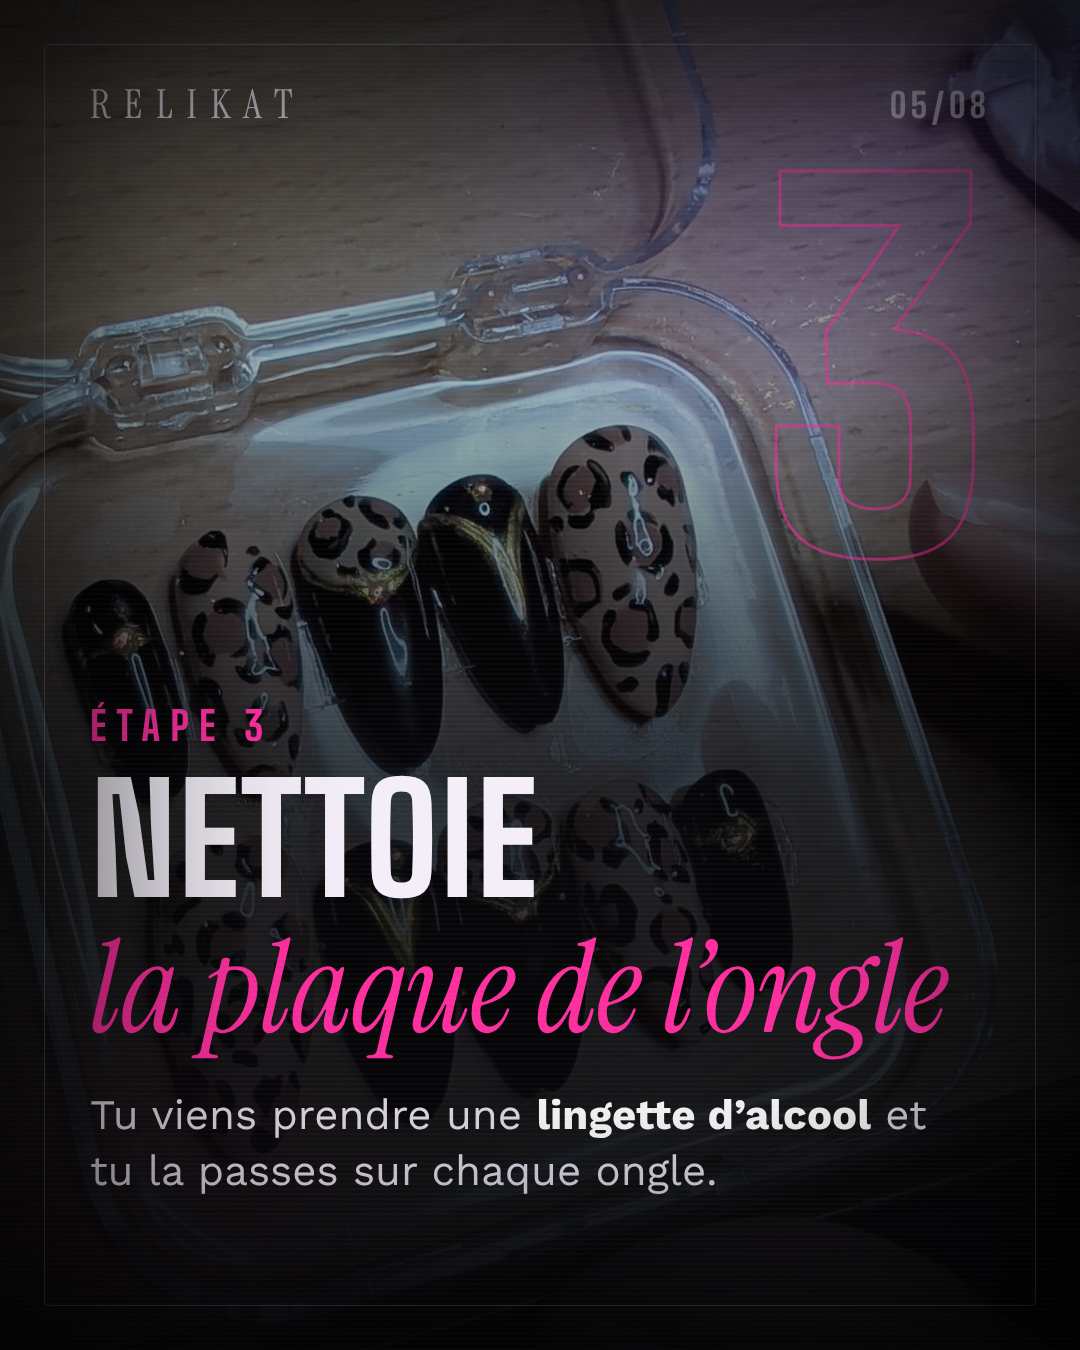
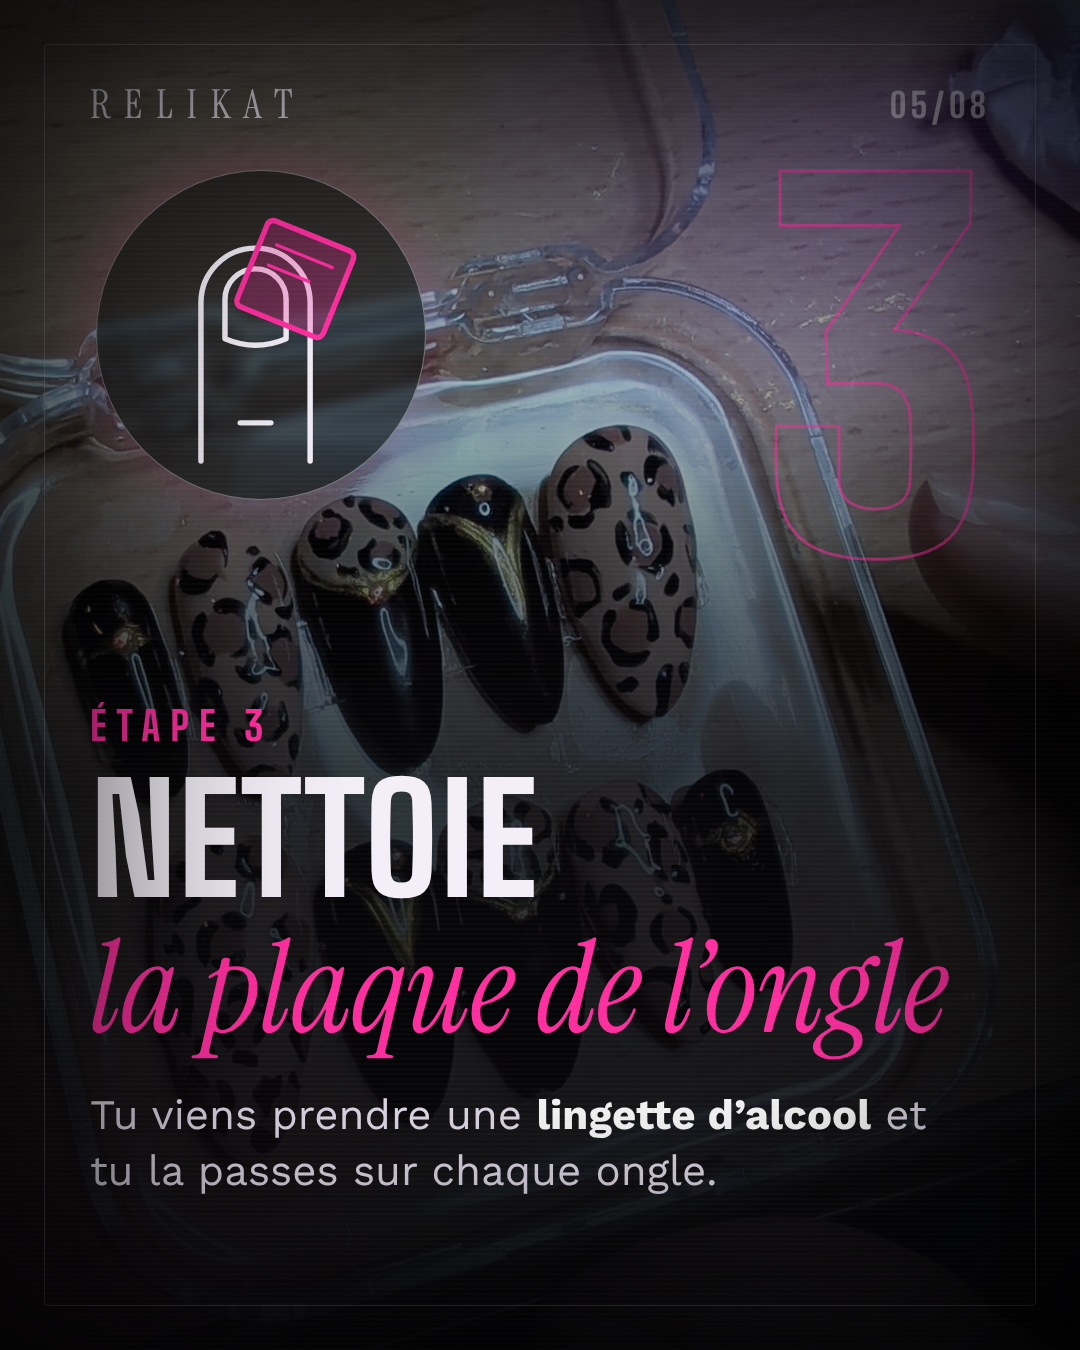
Carrousel RELIKAT : pictos au trait par étape + récap en grille
Claude-Session: https://claude.ai/code/session_0146tJhNhDf1eUKpWvX2gybg

Changed region(s): [[0.0917, 0.1244, 0.3972, 0.3733]]

diff --git a/relikat-carrousel-prepa/carrousel.html b/relikat-carrousel-prepa/carrousel.html
@@ -43,6 +43,18 @@ h1 em{font-family:ISerif;font-weight:400;font-style:normal;text-transform:none;c
  radial-gradient(800px 700px at 0% 100%,rgba(255,47,160,.25),transparent 60%)}
 .full .shade{background:linear-gradient(180deg,rgba(8,7,10,.45),rgba(8,7,10,.78) 35%,rgba(8,7,10,.88)),
  radial-gradient(900px 700px at 85% 10%,rgba(155,92,255,.30),transparent 60%)}
+.ic{position:absolute;left:96px;top:170px;width:330px;height:330px;border-radius:50%;border:1.5px solid rgba(217,217,227,.45);
+ background:rgba(8,7,10,.55);backdrop-filter:blur(6px);display:flex;align-items:center;justify-content:center;box-shadow:0 0 60px rgba(255,47,160,.18)}
+svg .ln{fill:none;stroke:#f3eef7;stroke-width:5;stroke-linecap:round;stroke-linejoin:round}
+svg .ln.thin{stroke-width:3;stroke:#ff2fa0}
+svg .ln.fill{fill:rgba(255,47,160,.28);stroke:#ff2fa0}
+svg .pad{fill:#ff2fa0;opacity:.85}
+svg .sp{fill:#d9d9e3;font-size:34px}
+.grid{display:grid;grid-template-columns:repeat(3,1fr);gap:18px;margin-top:40px}
+.cell{border:1.5px solid rgba(217,217,227,.35);background:rgba(8,7,10,.6);padding:18px 10px 20px;text-align:center}
+.cell .n{font-family:BigS;font-size:34px;color:#ff2fa0;letter-spacing:3px}
+.cell .l{font-size:27px;line-height:1.25;color:#f3eef7;margin-top:8px}
+.cell.tip{display:flex;flex-direction:column;justify-content:center;border-color:#ff2fa0}
 </style></head><body>
 
 <!-- SVG nail reused -->
@@ -68,25 +80,27 @@ h1 em{font-family:ISerif;font-weight:400;font-style:normal;text-transform:none;c
  <div class="txt">C’est presque toujours <b>la prépa</b> : un ongle brillant ou gras, et ça ne peut pas accrocher.</div>
  <div class="hand">Alors on prépare →</div></div></section>
 <section class="s" id="s3"><div class="bg" style="background-image:url(p-boite-poste.jpg);background-position:center 20%"></div><div class="shade"></div><div class="frame"></div><div class="brand">RELIKAT</div><div class="pg">03/08</div><div class="num">1</div>
+ <div class="ic"><svg viewBox="0 0 210 250" width="230" height="273"><path d="M50 240 V95 A50 50 0 0 1 150 95 V240" class="ln"/><path d="M72 128 V92 A28 28 0 0 1 128 92 V128 Q100 140 72 128 Z" class="ln"/><path d="M86 205 H114" class="ln"/><g transform="rotate(-18 105 62)"><rect x="18" y="42" width="175" height="40" rx="20" class="ln fill"/><path d="M40 62 H170" class="ln thin"/></g></svg></div>
   <div class="content"><div class="kicker">Étape 1</div><h1>Matifie<br><em>tes ongles</em></h1>
  <div class="txt">Tu dois <b>absolument</b> matifier tes ongles avec un buffer. On enlève juste la brillance.</div></div></section>
 <section class="s" id="s4"><div class="bg" style="background-image:url(p-mains-h.png);background-position:78% 70%"></div><div class="shade"></div><div class="frame"></div><div class="brand">RELIKAT</div><div class="pg">04/08</div><div class="num">2</div>
+ <div class="ic"><svg viewBox="0 0 210 250" width="230" height="273"><path d="M50 240 V95 A50 50 0 0 1 150 95 V240" class="ln"/><path d="M72 128 V92 A28 28 0 0 1 128 92 V128 Q100 140 72 128 Z" class="ln"/><path d="M86 205 H114" class="ln"/><path d="M100 112 L182 18" class="ln" style="stroke-width:7"/><ellipse cx="98" cy="114" rx="9" ry="6" class="ln fill"/></svg></div>
   <div class="content"><div class="kicker">Étape 2</div><h1>Repousse<br><em>les cuticules</em></h1>
  <div class="txt">Avec un bâtonnet, tu viens retirer <b>la peau qui est collée sur ton ongle</b>.</div></div></section>
 <section class="s" id="s5"><div class="bg" style="background-image:url(p-boite.jpg);background-position:center 40%"></div><div class="shade"></div><div class="frame"></div><div class="brand">RELIKAT</div><div class="pg">05/08</div><div class="num">3</div>
+ <div class="ic"><svg viewBox="0 0 210 250" width="230" height="273"><path d="M50 240 V95 A50 50 0 0 1 150 95 V240" class="ln"/><path d="M72 128 V92 A28 28 0 0 1 128 92 V128 Q100 140 72 128 Z" class="ln"/><path d="M86 205 H114" class="ln"/><g transform="rotate(22 135 70)"><rect x="95" y="30" width="85" height="85" rx="6" class="ln fill"/><path d="M110 50 H165 M110 70 H150" class="ln thin"/></g></svg></div>
   <div class="content"><div class="kicker">Étape 3</div><h1>Nettoie<br><em>la plaque de l’ongle</em></h1>
  <div class="txt">Tu viens prendre une <b>lingette d’alcool</b> et tu la passes sur chaque ongle.</div></div></section>
 <section class="s" id="s6"><div class="bg" style="background-image:url(p-boite-poste.jpg);background-position:center 60%"></div><div class="shade"></div><div class="frame"></div><div class="brand">RELIKAT</div><div class="pg">06/08</div><div class="num">4</div>
+ <div class="ic"><svg viewBox="0 0 210 250" width="230" height="273"><path d="M50 240 V95 A50 50 0 0 1 150 95 V240" class="ln"/><path d="M72 128 V92 A28 28 0 0 1 128 92 V128 Q100 140 72 128 Z" class="ln"/><path d="M86 205 H114" class="ln"/><path d="M130 230 C130 165 142 110 162 45 C182 110 194 165 194 230 Z" class="ln fill" transform="translate(-10 -40)"/><g transform="rotate(-15 160 160)"><rect x="118" y="120" width="70" height="70" rx="6" class="ln fill"/><path d="M130 140 H175 M130 158 H165" class="ln thin"/></g></svg></div>
   <div class="content"><div class="kicker">Étape 4 · Bonus</div><h1>Lingette<br><em>sous le press on</em></h1>
  <div class="txt">Tu viens passer aussi un petit coup de lingette <b>sous la capsule</b>, pour qu’elle soit propre des deux côtés.</div><div class="hand">le petit détail qui change tout ♡</div></div></section>
 <section class="s" id="s7"><div class="bg" style="background-image:url(p-boite.jpg);background-position:center 35%"></div><div class="shade"></div><div class="frame"></div><div class="brand">RELIKAT</div><div class="pg">07/08</div><div class="num">5</div>
+ <div class="ic"><svg viewBox="0 0 210 250" width="230" height="273"><path d="M50 240 V95 A50 50 0 0 1 150 95 V240" class="ln"/><path d="M72 128 V92 A28 28 0 0 1 128 92 V128 Q100 140 72 128 Z" class="ln"/><path d="M86 205 H114" class="ln"/><rect x="78" y="88" width="44" height="34" rx="12" class="pad"/><text x="22" y="70" class="sp">✦</text><text x="160" y="150" class="sp">✦</text></svg></div>
   <div class="content"><div class="kicker">Étape 5</div><h1>Gel pad<br><em>à ta taille</em></h1>
  <div class="txt">Tu prends ton gel pad et tu choisis <b>la bonne taille pour ton ongle</b>. Ensuite, place à la pose.</div></div></section>
 <!-- 8 CTA -->
 <section class="s full" id="s8"><div class="bg" style="background-image:url(p-portrait.png);background-position:center 25%"></div><div class="shade"></div><div class="frame"></div><div class="brand">RELIKAT</div><div class="pg">08/08</div>
- <span class="star" style="top:230px;left:130px;font-size:70px">✦</span><span class="star" style="top:340px;right:180px;font-size:40px">✦</span>
- <div class="content" style="bottom:auto;top:340px"><div class="kicker">Récap</div>
- <h1>Prête<br><em>pour la pose.</em></h1>
- <div class="list"><div>Ongles matifiés au buffer</div><div>Cuticules repoussées</div><div>Plaque nettoyée à l’alcool</div><div>Lingette sous le press on</div><div>Gel pad à la bonne taille</div></div>
- <div class="tag">Enregistre pour ta prochaine pose</div></div></section>
+ 
+ <div class="content" style="bottom:auto;top:200px"><div class="kicker">Récap</div><h1 style="font-size:120px">Prête <em>pour la pose.</em></h1><div class="grid"><div class="cell"><svg viewBox="0 0 210 250" width="130" height="154"><path d="M50 240 V95 A50 50 0 0 1 150 95 V240" class="ln"/><path d="M72 128 V92 A28 28 0 0 1 128 92 V128 Q100 140 72 128 Z" class="ln"/><path d="M86 205 H114" class="ln"/><g transform="rotate(-18 105 62)"><rect x="18" y="42" width="175" height="40" rx="20" class="ln fill"/><path d="M40 62 H170" class="ln thin"/></g></svg><div class="n">ÉTAPE 1</div><div class="l">Matifie au buffer</div></div><div class="cell"><svg viewBox="0 0 210 250" width="130" height="154"><path d="M50 240 V95 A50 50 0 0 1 150 95 V240" class="ln"/><path d="M72 128 V92 A28 28 0 0 1 128 92 V128 Q100 140 72 128 Z" class="ln"/><path d="M86 205 H114" class="ln"/><path d="M100 112 L182 18" class="ln" style="stroke-width:7"/><ellipse cx="98" cy="114" rx="9" ry="6" class="ln fill"/></svg><div class="n">ÉTAPE 2</div><div class="l">Repousse les cuticules</div></div><div class="cell"><svg viewBox="0 0 210 250" width="130" height="154"><path d="M50 240 V95 A50 50 0 0 1 150 95 V240" class="ln"/><path d="M72 128 V92 A28 28 0 0 1 128 92 V128 Q100 140 72 128 Z" class="ln"/><path d="M86 205 H114" class="ln"/><g transform="rotate(22 135 70)"><rect x="95" y="30" width="85" height="85" rx="6" class="ln fill"/><path d="M110 50 H165 M110 70 H150" class="ln thin"/></g></svg><div class="n">ÉTAPE 3</div><div class="l">Nettoie à l’alcool</div></div><div class="cell"><svg viewBox="0 0 210 250" width="130" height="154"><path d="M50 240 V95 A50 50 0 0 1 150 95 V240" class="ln"/><path d="M72 128 V92 A28 28 0 0 1 128 92 V128 Q100 140 72 128 Z" class="ln"/><path d="M86 205 H114" class="ln"/><path d="M130 230 C130 165 142 110 162 45 C182 110 194 165 194 230 Z" class="ln fill" transform="translate(-10 -40)"/><g transform="rotate(-15 160 160)"><rect x="118" y="120" width="70" height="70" rx="6" class="ln fill"/><path d="M130 140 H175 M130 158 H165" class="ln thin"/></g></svg><div class="n">ÉTAPE 4</div><div class="l">Lingette sous le press on</div></div><div class="cell"><svg viewBox="0 0 210 250" width="130" height="154"><path d="M50 240 V95 A50 50 0 0 1 150 95 V240" class="ln"/><path d="M72 128 V92 A28 28 0 0 1 128 92 V128 Q100 140 72 128 Z" class="ln"/><path d="M86 205 H114" class="ln"/><rect x="78" y="88" width="44" height="34" rx="12" class="pad"/><text x="22" y="70" class="sp">✦</text><text x="160" y="150" class="sp">✦</text></svg><div class="n">ÉTAPE 5</div><div class="l">Gel pad à ta taille</div></div><div class="cell tip"><div class="n">✦ ASTUCE</div><div class="l">Appuie bien et évite l’eau la 1<sup>re</sup> heure</div></div></div><div class="tag">Enregistre pour ta prochaine pose</div></div></section>
 </body></html>
